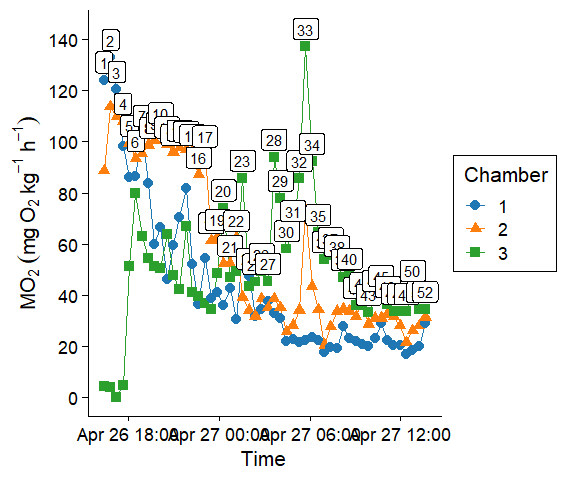
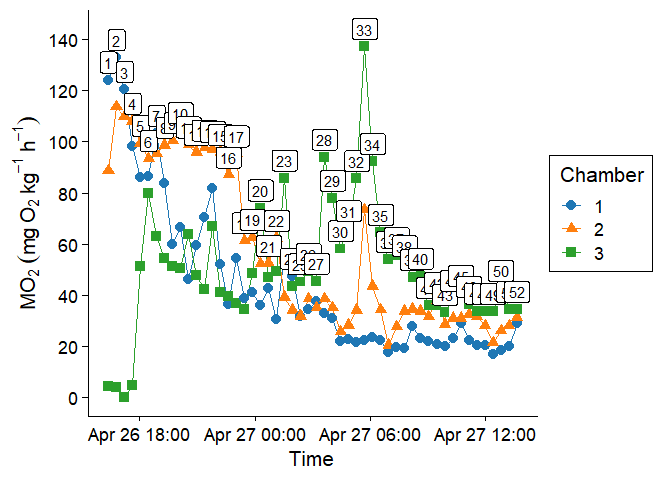
smaller readme figs

Changed region(s): [[0.0, 0.0312, 0.8125, 0.9688], [0.7812, 0.3438, 1.0, 0.5625]]

diff --git a/README.md b/README.md
@@ -491,7 +491,7 @@ measurements across a cycle’s measurement window:
 plot_cycle_po2(cycle_number = 9, path = exp_path)
 ```
 
-<img src="man/figures/README-unnamed-chunk-15-1.png" width="100%" />
+<img src="man/figures/README-unnamed-chunk-15-1.png" width="50%" />
 
 Alternatively, you can read in a single cycle’s data with `read_cycle()`
 and plot with ggplot2. Convert to long format for plotting:
@@ -521,7 +521,7 @@ ggplot(cycle_long,
   theme_classic(9)
 ```
 
-<img src="man/figures/README-unnamed-chunk-17-1.png" width="100%" />
+<img src="man/figures/README-unnamed-chunk-17-1.png" width="50%" />
 
 ### Plotting MO<sub>2</sub> over time
 
@@ -539,7 +539,7 @@ plot_exp(path = exp_path, chambers = -4) #chamber 4 (blank) omitted
 #> generated.
 ```
 
-<img src="man/figures/README-unnamed-chunk-18-1.png" width="100%" />
+<img src="man/figures/README-unnamed-chunk-18-1.png" width="75%" />
 
 The setting `show_cycle_labels = FALSE` will remove the cycle number
 labels if they are getting too busy. Note that the output is a ggplot,
